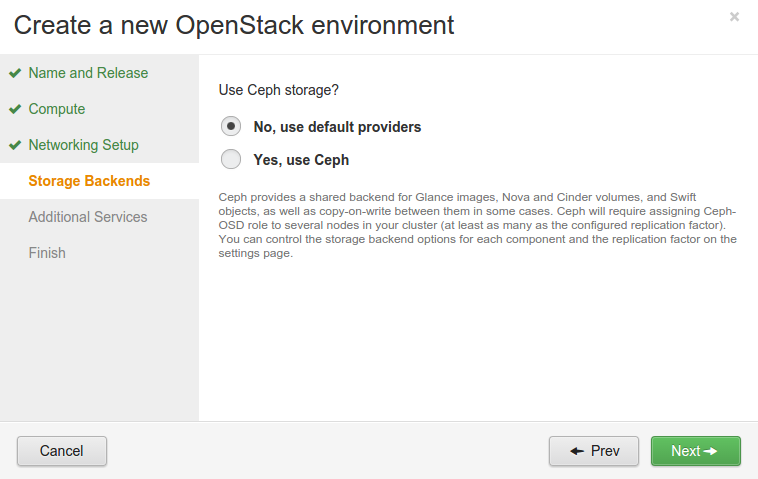
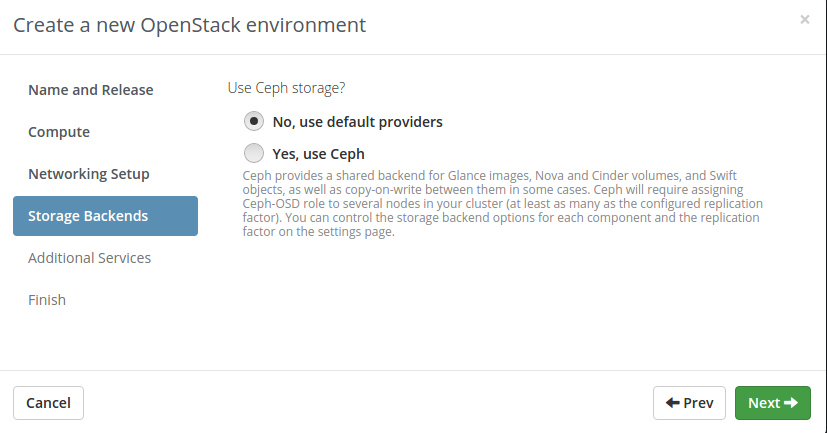
Fuel 7.0 UI changes
Update the Fuel 7.0 UX workflow and add
the dashboard tab.

diff --git a/pages/user-guide/create-environment/1050-change-password.rst b/pages/user-guide/create-environment/1050-change-password.rst
@@ -2,9 +2,19 @@
 
 Change Fuel Password
 --------------------
+It is highly recommended that you change the default password
+to the one that meets your company's security requirements.
 
-You can change the Fuel password from the Fuel UI screen;
-click on "Change password" at the upper right of the screen.
+Until you do, Fuel will keep reminding you that the password
+has not been changed yet:
+
+.. image:: /_images/user_screen_shots/change_pass_notification.png
+
+You can change the Fuel password from the Fuel UI screen
+Click the user icon at the upper right of the screen:
+
+.. image:: /_images/user_screen_shots/change_pass_ui.png
+
 The following screen is displayed:
 
 .. image:: /_images/authx/change_pass_not_vis.png

diff --git a/pages/user-guide/config-environment/1200-customize-partitions.rst b/pages/user-guide/config-environment/1200-customize-partitions.rst
@@ -28,12 +28,9 @@ The following partition types may be configured:
 - MongoDB: used for Ceilometer information stored in MongoDB
 - Mysql database: stores Zabbix statistics on Zabbix nodes
 
-To modify the disk allocation,
-click on the bar for a disk.
-This example is for a node that runs
-both a Compute node and a Storage - Cinder role;
-clicking on the center bar gives a display
-similar to the following:
+To modify the disk allocation, click *Configure Disks*:
+
+.. image:: /_images/user_screen_shots/partition-disks0.png
 
 .. image:: /_images/user_screen_shots/partition-disks.png
    :width: 80%

diff --git a/pages/user-guide/config-environment/1000-assign-roles.rst b/pages/user-guide/config-environment/1000-assign-roles.rst
@@ -64,9 +64,9 @@ you can keep these digits or delete them.
 Beginning with Fuel 6.1, you can remove
 a node from inventory if it is dead or
 there is need to delete it from the cluster.
-To do that, you should click **Forget** button
-next to the required node. This works for any offline
-node both deployed and not.
+To do that, you should click the **Remove** button
+next to the required node or select the node and hit *Delete*. This
+works for any offline node both deployed and not.
 To remove any node from inventory using the
 Fuel CLI, see :ref:`Remove a node from Fuel DB <remove-inv>`.
 

diff --git a/pages/user-guide/create-environment/1000-start-create-env.rst b/pages/user-guide/create-environment/1000-start-create-env.rst
@@ -22,6 +22,10 @@ The Fuel UI screen appears:
 .. image:: /_images/user_screen_shots/create_new_environ.png
    :width: 80%
 
+The Dashboard tab is your go-to place to review all the necessary
+information about your OpenStack environment:
+
+.. image:: /_images/user_screen_shots/fuel-dashboard01.png
 
 Click on the "New OpenStack environment" icon
 to launch the wizard that creates a new OpenStack environment.

diff --git a/pages/user-guide/config-environment/0900-add-nodes.rst b/pages/user-guide/config-environment/0900-add-nodes.rst
@@ -6,7 +6,7 @@ Add nodes to the environment
 
 The initial screen shows the total number of nodes
 that have been discovered in your environment
-and the number of nodes that are unallocated.
+and the number of nodes that are unallocated at the top right.
 Click on the "Add nodes" button to add nodes
 to your environment:
 

diff --git a/pages/user-guide/create-environment/1500-name-distro.rst b/pages/user-guide/create-environment/1500-name-distro.rst
@@ -14,8 +14,7 @@ and select the Linux distribution from the drop-down list:
 
 ::
 
-    Juno on Ubuntu 14.04.1 (2014.2.2-6.1)(default)
-    Juno on CentOS 6.5 (2014.2.2-6.1)
+    Kilo on Ubuntu 14.04.1 (2015.1.0-7.0) (default)
 
 This is the operating system that will be installed
 on the target nodes in the environment.
